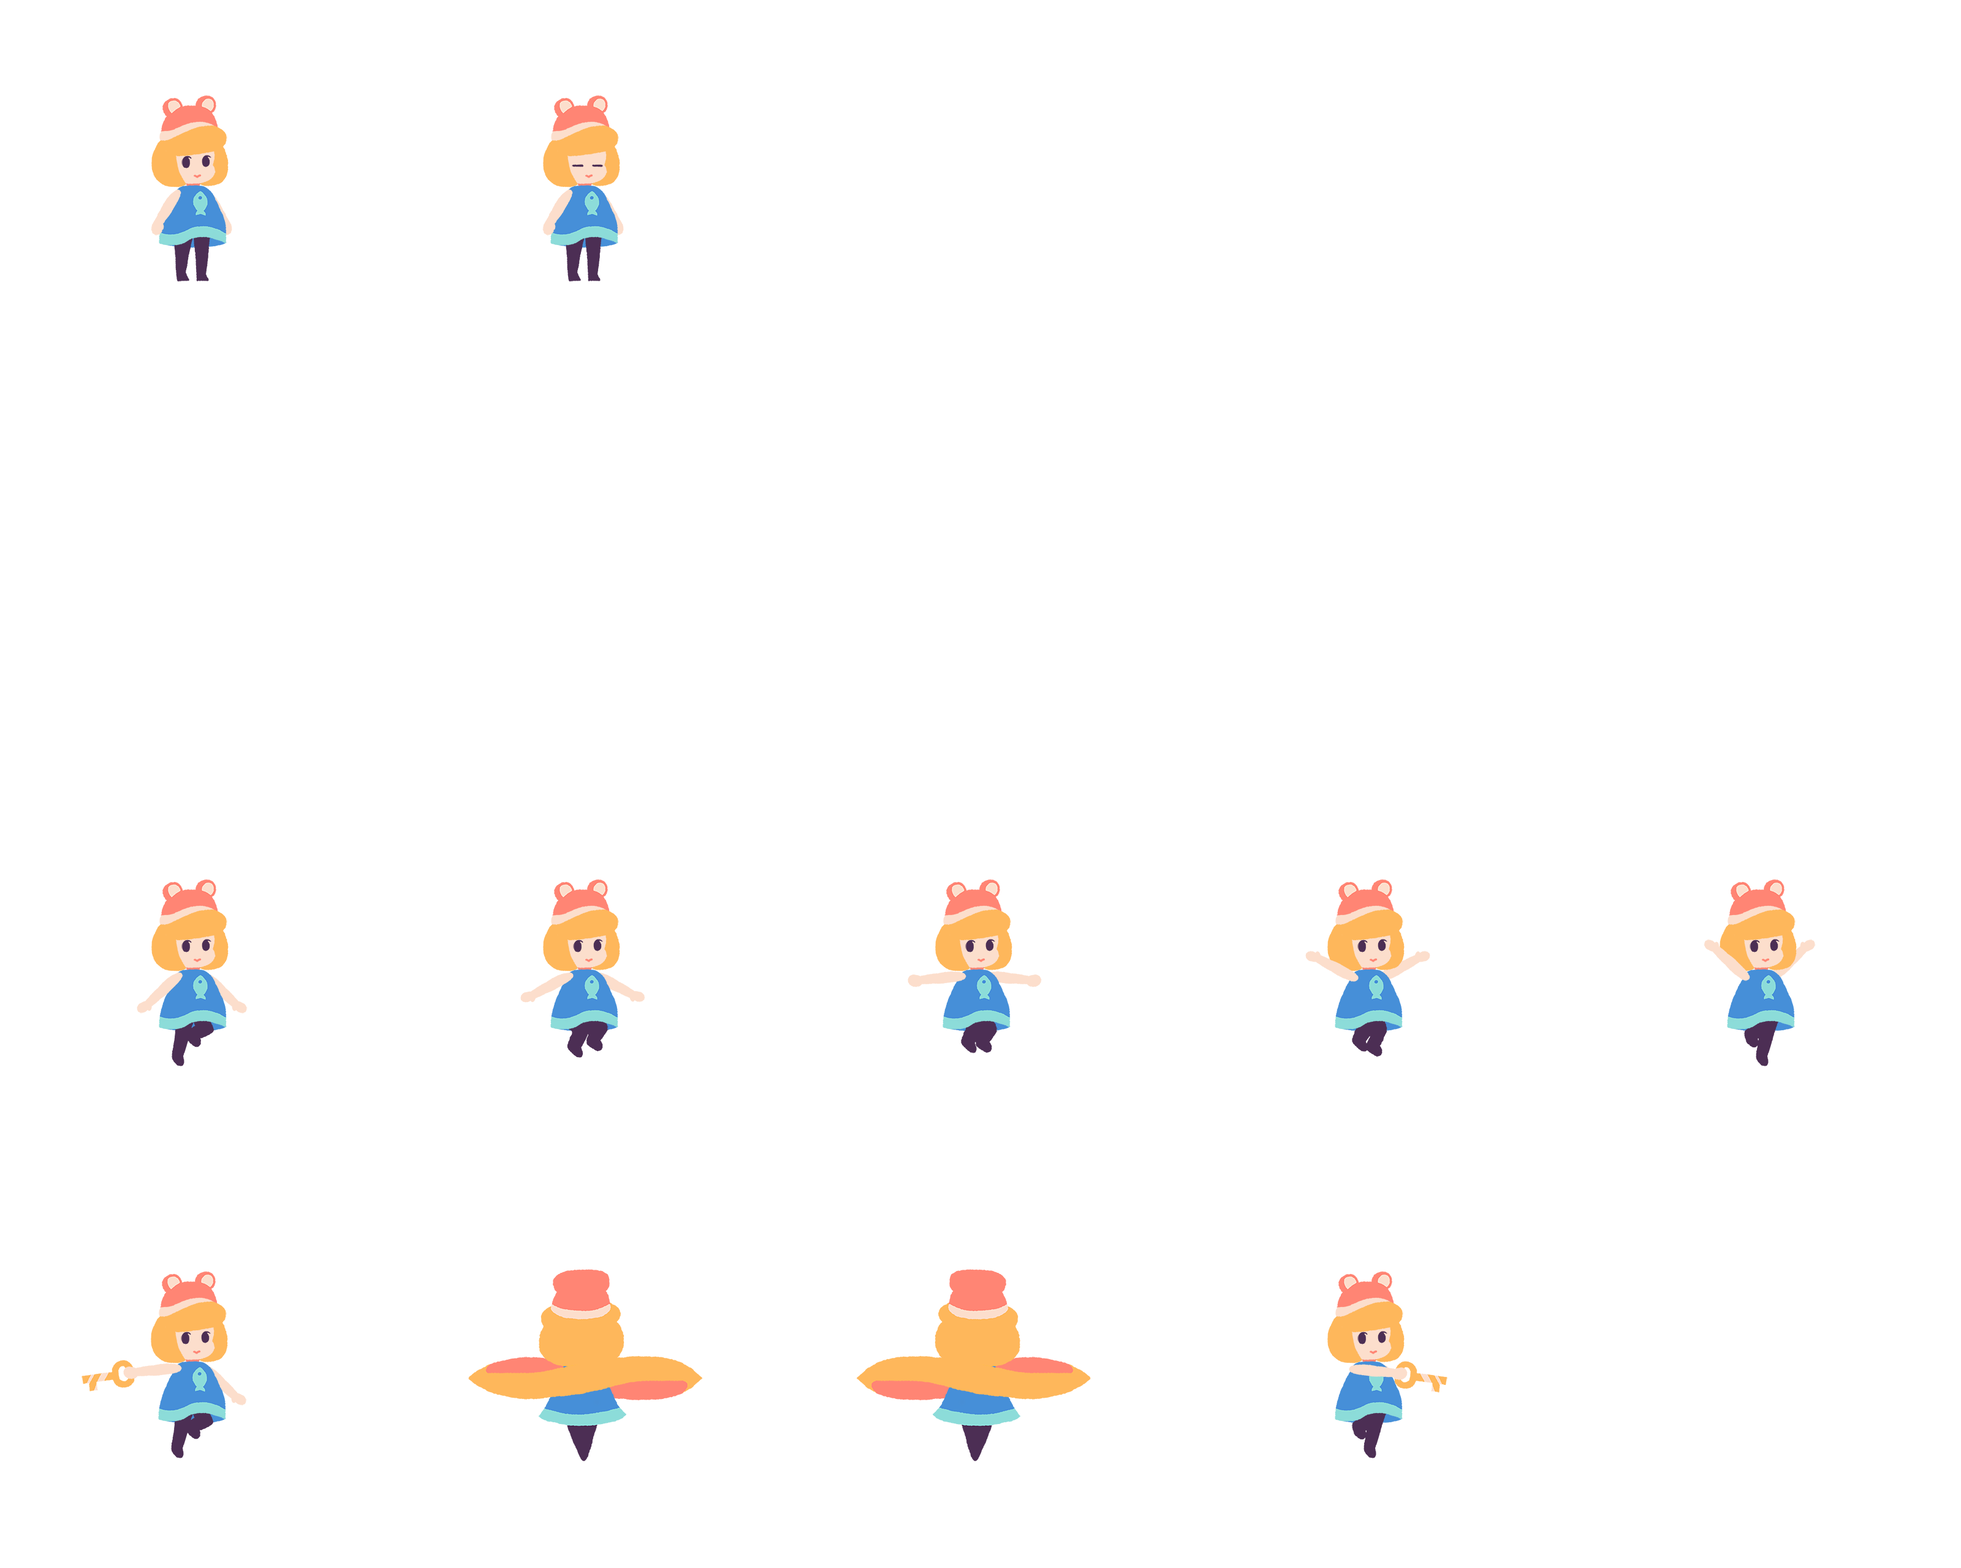
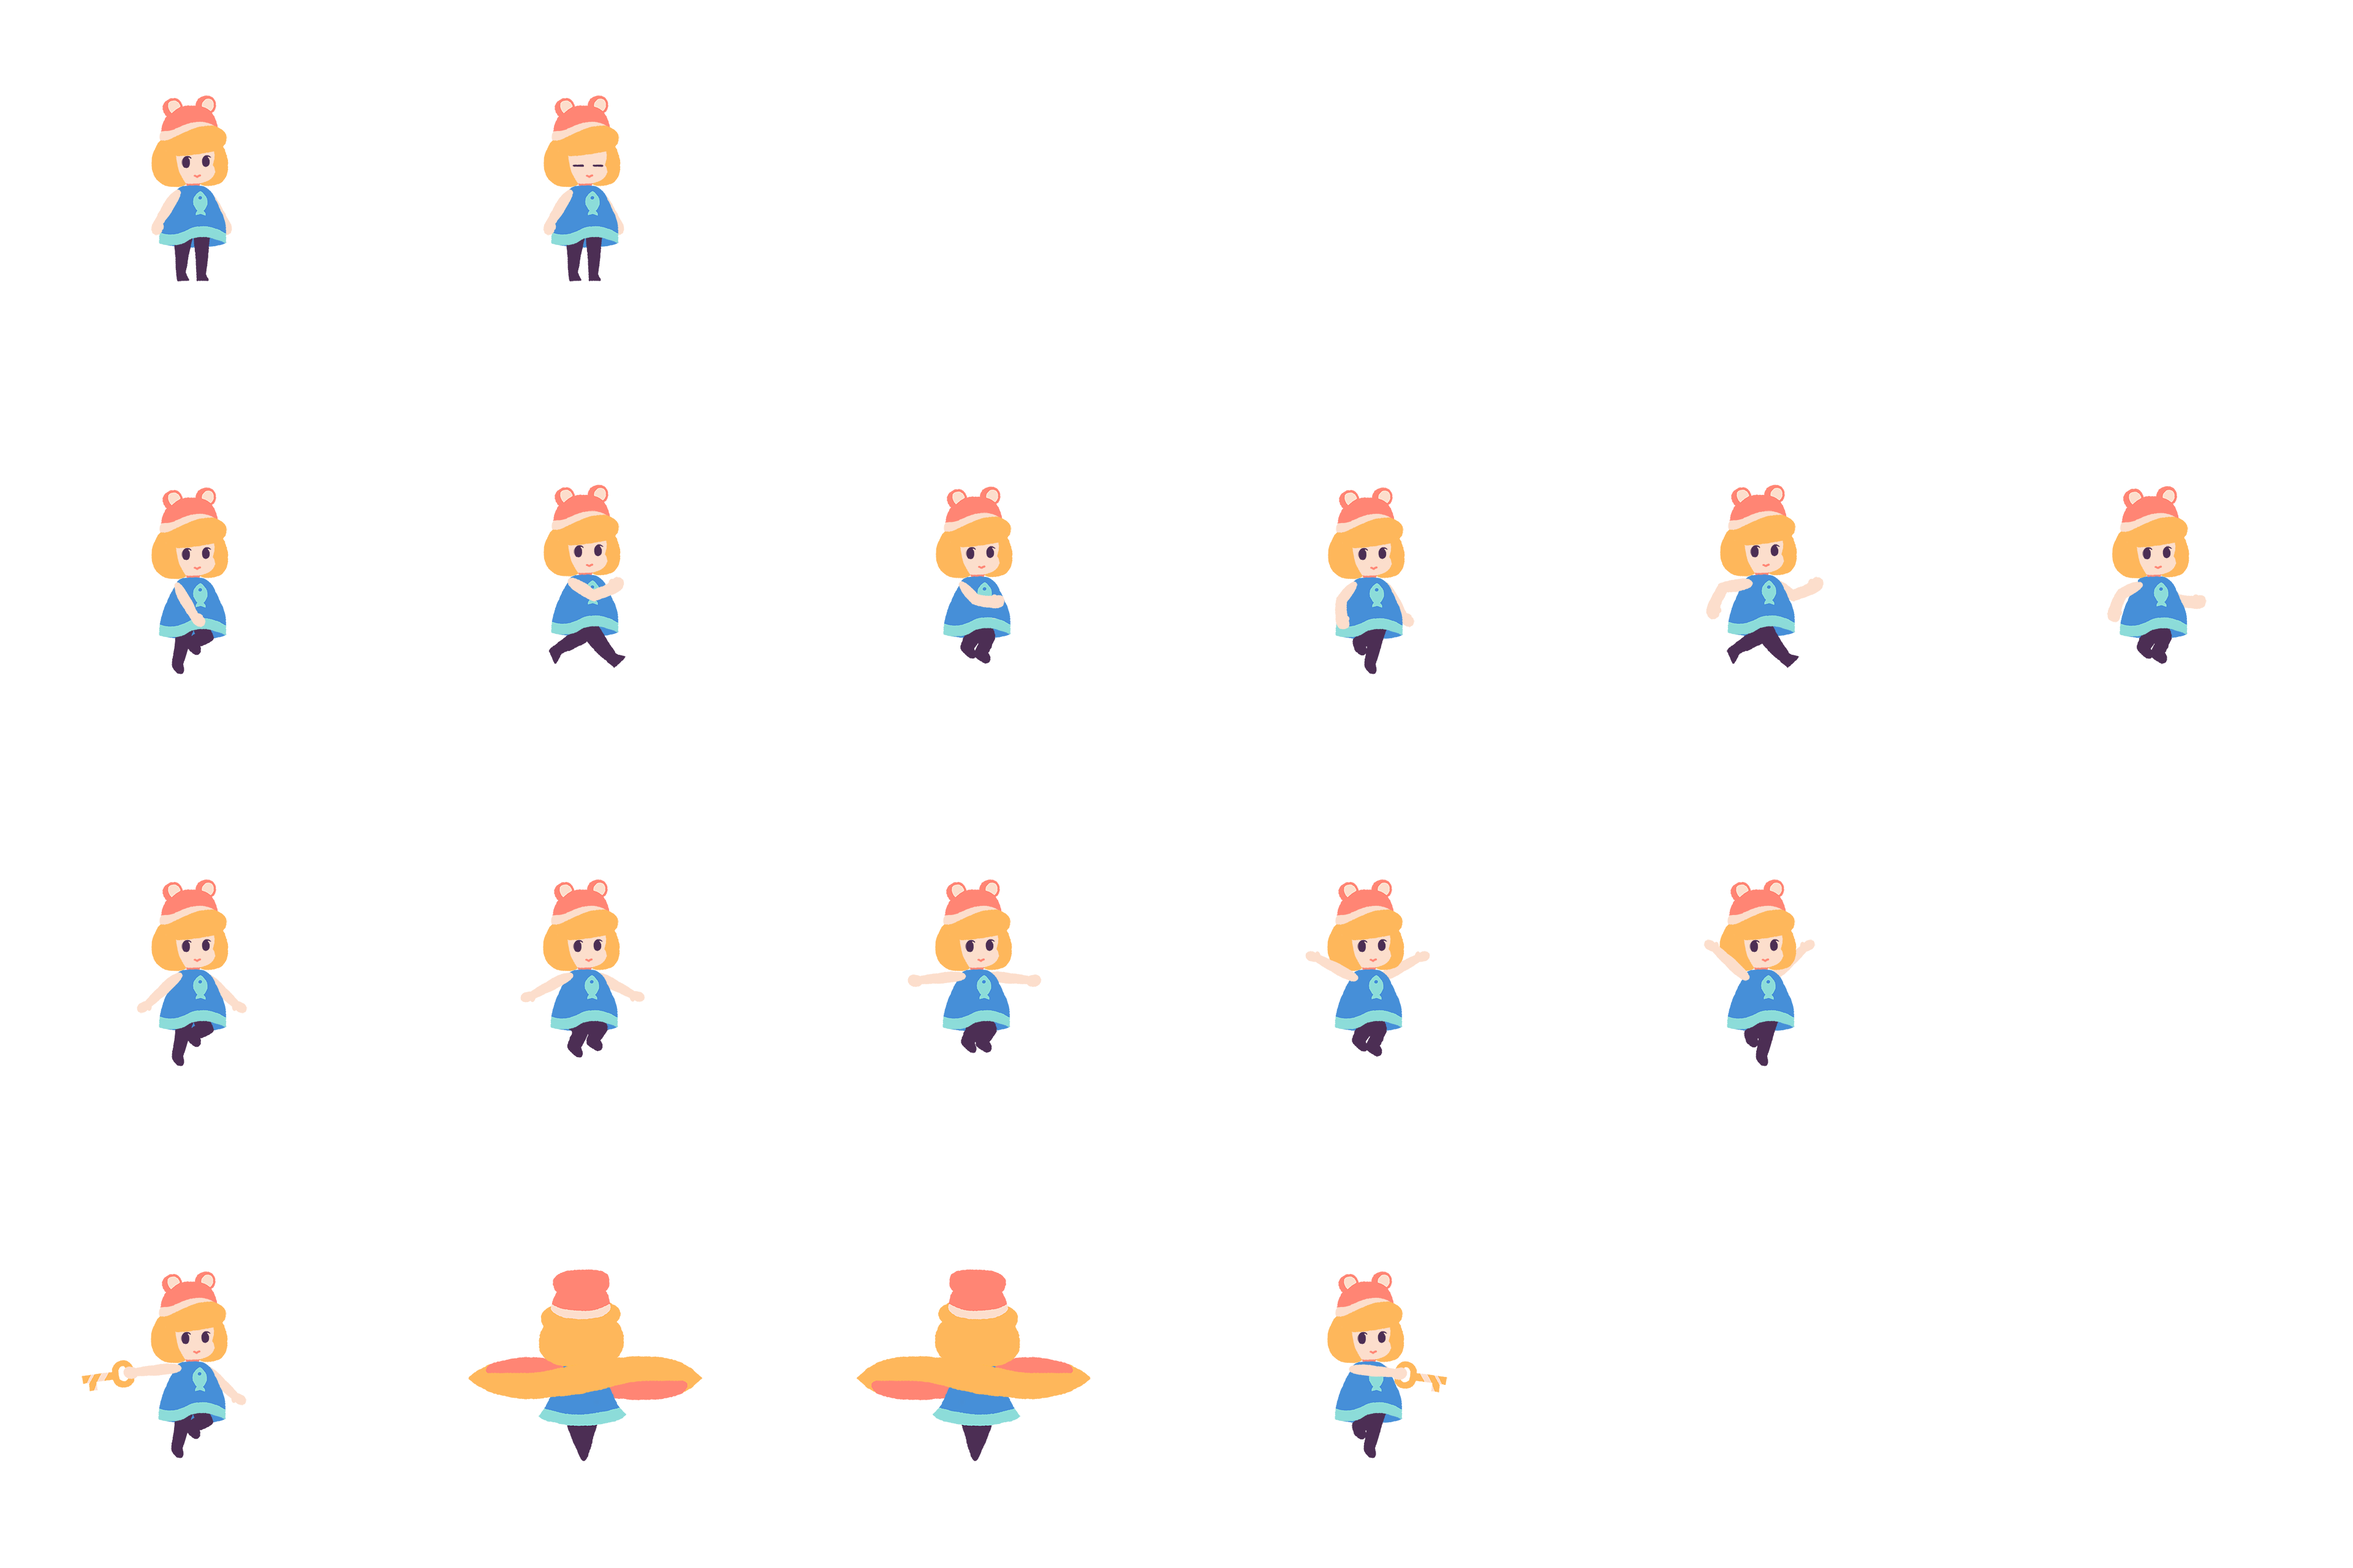
Implemented walk animation, slight key ability tweaks

diff --git a/Assets/Scripts/PlayerController.cs b/Assets/Scripts/PlayerController.cs
@@ -35,7 +35,7 @@ public class PlayerController : MonoBehaviour {
 
         // Idle & Walk animation based on x and z movement
         if (controller.isGrounded) {
-            if (moveDirection.x != 0.0f && moveDirection.z != 0.0f) {
+            if (moveDirection.x == 0.0f && moveDirection.z == 0.0f) {
                 // Idle animation when not moving in x or z
                 if (!animator.GetCurrentAnimatorStateInfo(0).IsName("PlumIdle") && !animator.GetCurrentAnimatorStateInfo(0).IsName("PlumKey")) {
                     animator.Play("PlumIdle", -1, 0.0f);
@@ -43,8 +43,8 @@ public class PlayerController : MonoBehaviour {
             }
             else {
                 // Walk animation when moving in x and/or z
-                if (!animator.GetCurrentAnimatorStateInfo(0).IsName("PlumIdle") && !animator.GetCurrentAnimatorStateInfo(0).IsName("PlumKey")) {
-                    animator.Play("PlumIdle", -1, 0.0f);
+                if (!animator.GetCurrentAnimatorStateInfo(0).IsName("PlumWalk") && !animator.GetCurrentAnimatorStateInfo(0).IsName("PlumKey")) {
+                    animator.Play("PlumWalk", -1, 0.0f);
                 }
             }
         }
